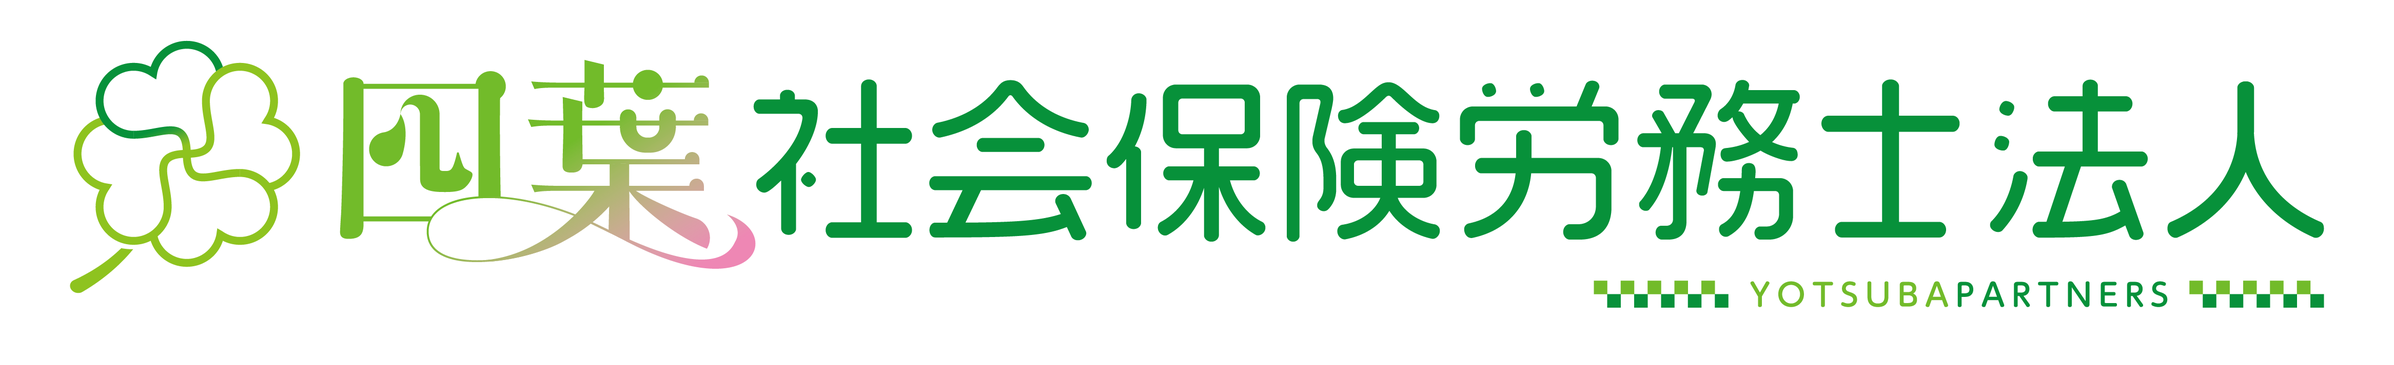
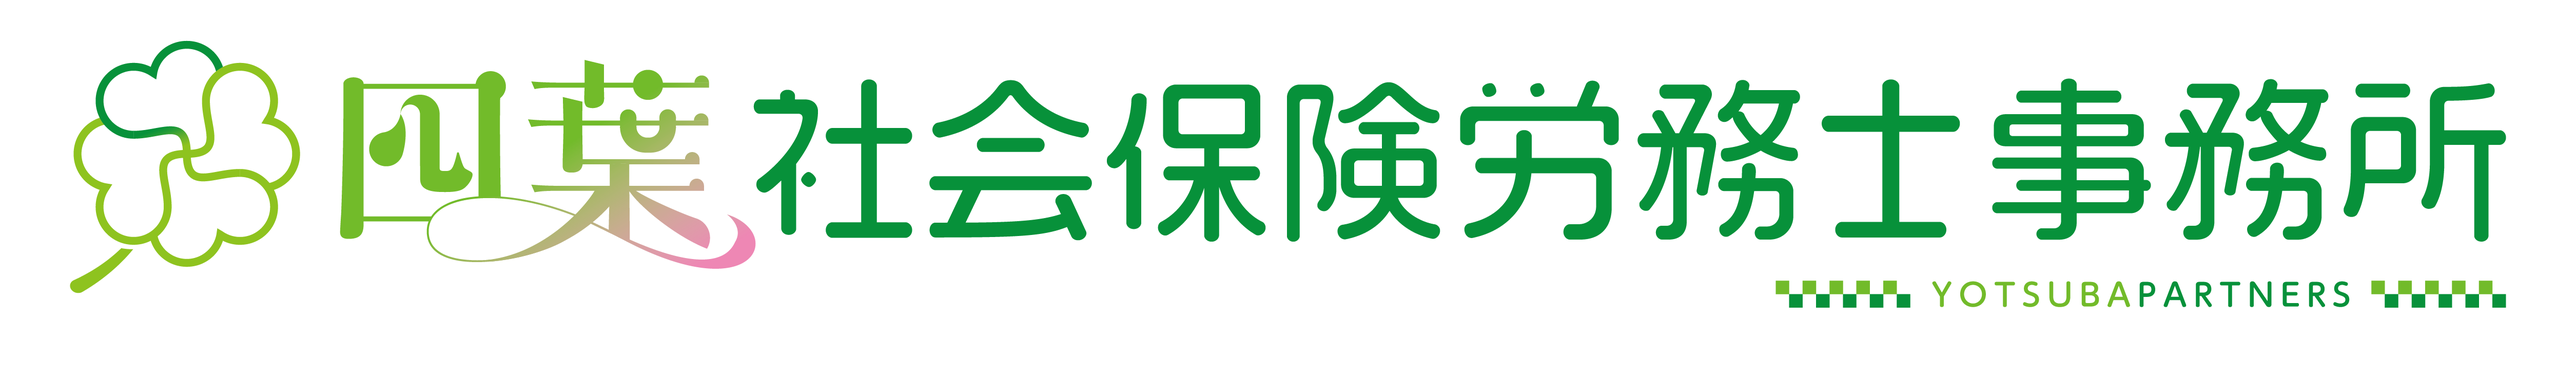
feat(labor): 社労士ロゴを「事務所」版に差し替え、開業時のロゴ露出箇所を揃える
イラストレーター納品の3種（縦積み・横組み・縦組み）から「法人」を外し、
行政書士版の「事務所」を継いだ。継ぎ位置は両版に共通する「士」の実測開始位置の
差を基準にしており、デザイナーのカーニングをそのまま保存している。
canvas は元ファイルの余白ジオメトリ（square 上下 115-1266・左右121／
horizontal 上下 79-600・左右136）を維持し、幅だけ伸ばした。

- public/yotsuba/labor-{square,horizontal,vertical}.png を差し替え
- public/yotsuba/labor-og.png を新設（1200×630・legal-og と同じ体裁）
- seo.ts: BUSINESS_SEO.labor に squareLogo / ogImage / alternateNames を追加。
  squareLogo 未設定・ogImage 空のままだと OrganizationJsonLd の logo が
  `SITE_URL + ""`（＝サイトURL）に潰れ、og:image も出力されなかった。
  alternateNames は sr-name.ts の実行時結合のみ（英訳は裏取りなしのため置かない）。
- /about・/legal のグループ紹介の3枚目（社労士）を SR_LAUNCHED で出し分け。
  翻訳DB側は3件あり stripSrEntities が開業前に落とす構造なのに対し、
  描画側は配列長・コメントアウトで固定されていたため開業時に戻らなかった。

SR_LAUNCHED の切替は含めない（開業日=2026-09-01 に浦松が行う）。

Changed region(s): [[0.0311, 0.0926, 0.9944, 0.7714], [0.6526, 0.7714, 0.9944, 0.864], [0.9634, 0.6171, 0.9944, 0.648]]

diff --git a/src/app/[locale]/(legal)/legal/LegalPageContent.tsx b/src/app/[locale]/(legal)/legal/LegalPageContent.tsx
@@ -15,6 +15,9 @@ import { useTranslation } from "@/hooks/useTranslation";
 
 const serviceIcons = [Coins, Plane, Building2, FileCheck, ScrollText, ShieldCheck];
 
+/** 社労士（2026-09-01 開業）の露出可否。開業前は false ＝グループ紹介に出さない（法27条）。 */
+const SR_LAUNCHED = process.env.NEXT_PUBLIC_SR_LAUNCHED === "true";
+
 export default function LegalPageContent() {
   const { t, tArray } = useTranslation();
 
@@ -138,7 +141,11 @@ export default function LegalPageContent() {
             {t("legal.homePage.oneStopDescription2")}
           </p>
 
-          <div className="mx-auto mt-12 grid max-w-2xl gap-4 sm:grid-cols-2">
+          <div
+            className={`mx-auto mt-12 grid gap-4 ${
+              SR_LAUNCHED ? "max-w-4xl sm:grid-cols-3" : "max-w-2xl sm:grid-cols-2"
+            }`}
+          >
             {(() => {
               const businesses = tArray<{ name: string; description: string }>("legal.homePage.groupBusinesses");
               return (
@@ -172,24 +179,26 @@ export default function LegalPageContent() {
                       {t("common.thisPage")}
                     </p>
                   </div>
-                  {/* TODO: 社労士開業（2026年9月）後に復活
-                  <Link
-                    href="/labor"
-                    className="rounded-xl border border-border bg-surface p-6 transition-all hover:border-primary/30 hover:shadow-md"
-                  >
-                    <Image
-                      src="/yotsuba/labor-square.png"
-                      alt={businesses[2]?.name ?? ""}
-                      width={56}
-                      height={56}
-                      className="mx-auto h-14 w-14 object-contain"
-                    />
-                    <p className="mt-3 text-sm font-bold">{businesses[2]?.name}</p>
-                    <p className="mt-1 text-xs text-text-muted">
-                      {businesses[2]?.description}
-                    </p>
-                  </Link>
-                  */}
+                  {/* 社労士カードは開業（SR_LAUNCHED=true・2026-09-01）から出す。
+                      開業前は businesses[2] 自体が stripSrEntities で落ちている（法27条）。 */}
+                  {SR_LAUNCHED && businesses[2] && (
+                    <Link
+                      href="/labor"
+                      className="rounded-xl border border-border bg-surface p-6 transition-all hover:border-primary/30 hover:shadow-md"
+                    >
+                      <Image
+                        src="/yotsuba/labor-square.png"
+                        alt={businesses[2]?.name ?? ""}
+                        width={56}
+                        height={56}
+                        className="mx-auto h-14 w-14 object-contain"
+                      />
+                      <p className="mt-3 text-sm font-bold">{businesses[2]?.name}</p>
+                      <p className="mt-1 text-xs text-text-muted">
+                        {businesses[2]?.description}
+                      </p>
+                    </Link>
+                  )}
                 </>
               );
             })()}

diff --git a/src/lib/seo.ts b/src/lib/seo.ts
@@ -1,6 +1,10 @@
 import type { Metadata } from "next";
 import { groupBusinesses } from "@/config/group";
-import { SR_OFFICE_NAME } from "@/lib/shared/sr-name";
+import {
+  SR_OFFICE_NAME,
+  SR_OFFICE_NAME_ZH,
+  SR_OFFICE_NAME_ZH_TW,
+} from "@/lib/shared/sr-name";
 import { GBP_URL } from "@/lib/shared/office-public";
 import { DEFAULT_LOCALE, isValidLocale } from "@/lib/locale";
 import type { LangCode } from "@/config/languages";
@@ -396,8 +400,23 @@ export const BUSINESS_SEO: Record<string, BusinessSEOConfig> = {
           description:
             `東京都文京区小日向・茗荷谷駅徒歩5分の${SR_OFFICE_NAME}。障害福祉・介護事業所の労務管理、処遇改善加算、社会保険手続き、雇用関係助成金、外国人介護人材の労務に対応。元新聞記者の社労士が、複雑な労務を整理してお手伝いします。`,
           schemaType: "ProfessionalService",
-          ogImage: "",
+          // OG画像（2026-08-31 新設・1200×630）。legal と同じ体裁で作成。
+          // 旧実装は "" ＝ labor 全ページで og:image / twitter:image が出ず、
+          // OrganizationJsonLd の logo が `SITE_URL + ""`（＝サイトURL）に潰れていた。
+          ogImage: "/yotsuba/labor-og.png",
+          ogImageWidth: 1200,
+          ogImageHeight: 630,
+          squareLogo: "/yotsuba/labor-square.png",
           columnBasePath: "/labor/column",
+          // 登録番号は2026年9月下旬交付予定のため identifiers はまだ置かない。
+          // 交付後に { propertyID: "社会保険労務士登録番号", value: … } を追加する。
+          // 事務所名は実行時結合のものだけを並べる。英訳は裏取りできていないため置かない
+          // （英語の連続リテラルは sr-strip.ts の除去対象＝開業前にクライアントへ載せない）。
+          alternateNames: [
+            SR_OFFICE_NAME,
+            SR_OFFICE_NAME_ZH_TW,
+            SR_OFFICE_NAME_ZH,
+          ],
         },
       }
     : {}),

diff --git a/src/app/[locale]/(realestate)/about/AboutPageContent.tsx b/src/app/[locale]/(realestate)/about/AboutPageContent.tsx
@@ -6,10 +6,18 @@ import { ArrowRight, MapPin } from "lucide-react";
 import { useTranslation } from "@/hooks/useTranslation";
 import { BreadcrumbJsonLd } from "@/components/seo/BreadcrumbJsonLd";
 
-// 社労士カードは法人化（2026-09開業予定）まで非表示（浦松指示 2026-07-07）。
-// 復元: "/yotsuba/labor-square.png" をこの配列へ戻すだけでよい（Firestore側の
-// realestate.aboutPage.groupBusinesses も3件に戻す必要あり）。
-const groupLogos = ["/yotsuba/realestate-square.png", "/yotsuba/legal-square.png"];
+// 社労士カードは開業（SR_LAUNCHED=true・2026-09-01）まで非表示。
+// 翻訳DB側の realestate.aboutPage.groupBusinesses は3件あり、開業前は
+// [locale]/layout.tsx の stripSrEntities が社労士エントリを落とす（法27条）。
+// カードの描画は groupBusinesses.slice(0, groupLogos.length) なので、
+// この配列の長さが「出す枚数」になる＝ここも同じ条件で出し分ける。
+const groupLogos = [
+  "/yotsuba/realestate-square.png",
+  "/yotsuba/legal-square.png",
+  ...(process.env.NEXT_PUBLIC_SR_LAUNCHED === "true"
+    ? ["/yotsuba/labor-square.png"]
+    : []),
+];
 
 // 代表プロフィール導線のロケール別ラベル（翻訳チェック§J1・2026-07-20）。
 // Firestoreに新キーを増やさずコード内直書き（B-1フッター「料金」等と同方式）。

diff --git a/tasks/lessons.md b/tasks/lessons.md
@@ -110,3 +110,11 @@
 - **NG文面に「直し方」が無いと人間の復旧が遅れる**: 「不明slug X」だけでは、slugの綴り間違いなのか接頭辞の取り違えなのか読み取れない。sitemap の `/legal/column/` `/labor/column/` を**許可リストとは別枠**で集め、不明slugがそこに実在したら「行政書士側 /legal/column/X に実在。ルート接頭辞の誤り」とNGに添える形にした（落とす条件は不変・緩和ではない）。
 - **翻訳3言語は同じ誤りを書いても自動では止まらない**: 不明slug検査の正規表現は `](/column/...)` の相対形しか見ず、翻訳は絶対URL（`https://luck428.com/column/…`）なので一致しない。**ja を直したら翻訳3本も必ず同じだけ直す**を執筆規程に明記した。
 - **validate で落ちると review / fix / open-pr が走らず、その日の原稿は1本もマージされない**: 執筆済み原稿は Run の artifact にしか残らない。validate だけの re-run は同じ壊れた artifact を読むので無意味、全体 re-run は企画からやり直し。**artifact を落として1箇所直し、通常のPRに乗せるのが最短のサルベージ**。
+
+## 2026-08-31 社労士ロゴの「法人」→「事務所」差し替え（PNG合成）
+
+- **字送りの推定値で継ぐと、継ぎ足す1文字目の左端が削れる**：ロゴ3種のうち縦積み(01)・横組み(02)を「基準x＋pitch×n」で切ったところ、`事` の実際の字形開始位置が計算セルより 19〜25px 左にあり、その分だけ横棒が欠けた。**縮小表示では気づけない**（目視OKと判断して一度確定させてしまった）。正しいのは**両版に共通して存在する文字（`士`）の実測開始位置の差をΔとし、Δだけずらして継ぐ**方法。字間はデザイナーのカーニングごと保存され、切り位置は「文字と文字のあいだの完全な空白」から選べる。
+- **継いだ結果は、元ファイルの余白ジオメトリに合わせて作り直す**：最初の版は canvas が 3499×1394（元は 3246×1410）で、内容の y が +6 ずれていた。ロゴは `object-contain` の正方形ボックスや `h-14 w-auto` で使われるため、**上下の余白が変わると3事業体で見た目の大きさが揃わない**。左右余白は元ファイルが左右対称（square 121px／horizontal 136px）なので、それに合わせて幅だけ伸ばす。
+- **文字の当たりは「同じ文字の字幅」で検算できる**：`務` は法人版・行政書士版の両方にあり、字幅が一致する（square 246 vs 249／horizontal 317 vs 319）。列投影のランを文字に割り当てるとき、この一致を使うと `礻`＋`土` のような分割ランの取り違えを潰せる。
+- **`labor` の BUSINESS_SEO は squareLogo 未設定・ogImage 空だった**：`OrganizationJsonLd` は `logo: SITE_URL + (squareLogo ?? ogImage)` なので、開業と同時に **logo がサイトURLそのもの（非画像）になる**ところだった。legal は 2026-08-24 の監査で埋めたが labor は取り残されていた。**SR_LAUNCHED=false でキーごと登録しない設計は、監査の網からも外れる。**
+- **開業前に隠している要素は「復活させる側」も同じゲートで書く**：`/about` の `groupLogos` は2件に切り詰められており、翻訳DB側は3件のまま `stripSrEntities` で落ちている。開業時に `SR_LAUNCHED` を true にしても、**配列の長さで `slice` している側は自動では戻らない**。`/legal` の3枚目もコメントアウトのままだった。
